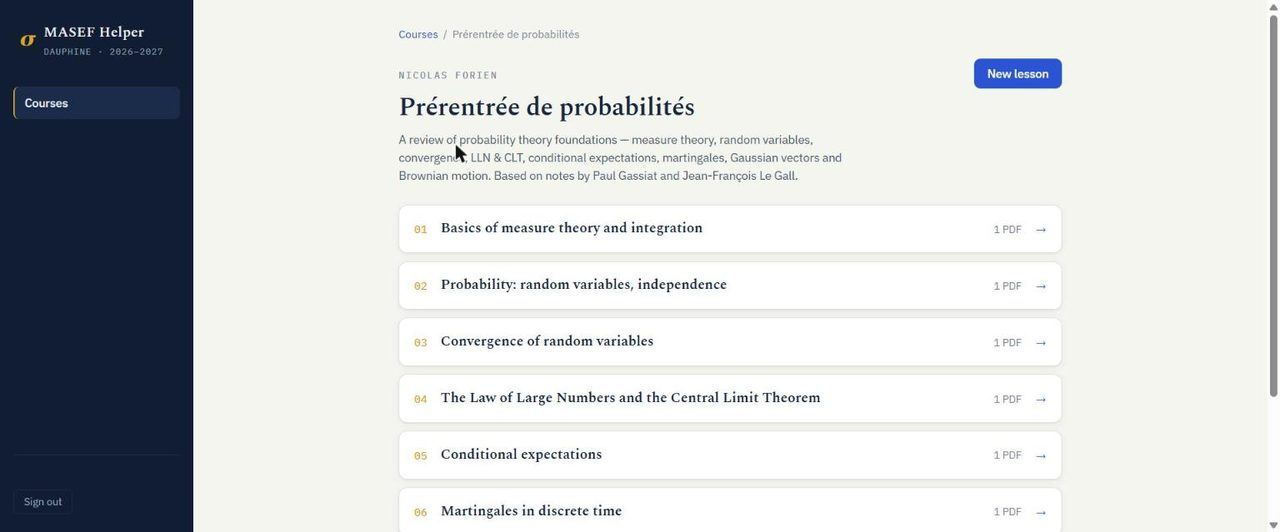
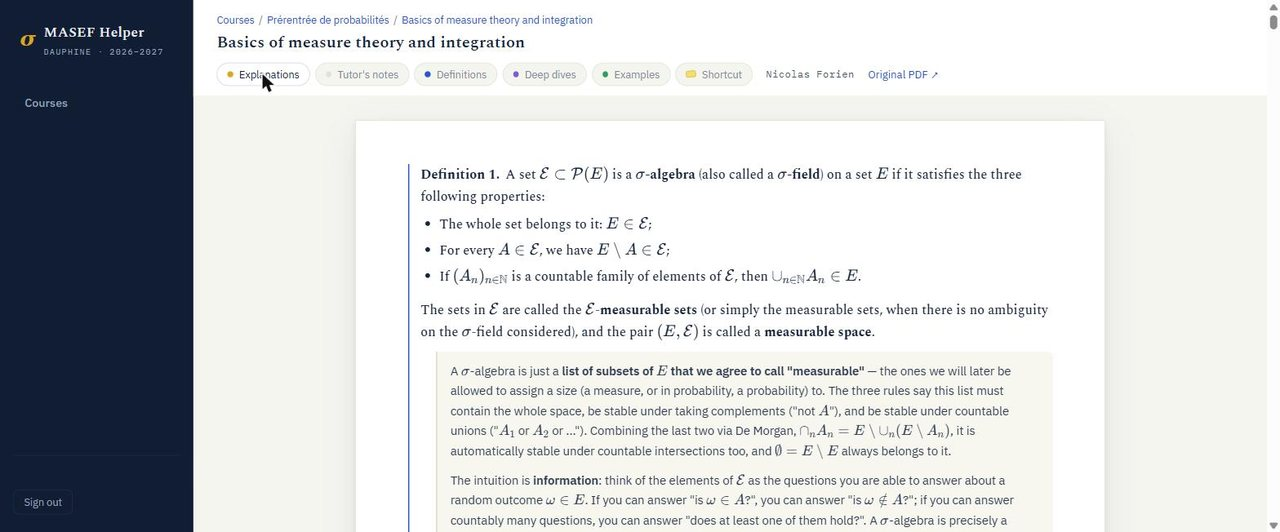
Guided tours for AI Apply Finance and MASEF Helper, AI Apply Finance rename and link

diff --git a/src/data.js b/src/data.js
@@ -59,10 +59,15 @@ export const experiences = [
 
 // `details` opens when a monitor is clicked. `live` is the deployed site, `video` the YouTube id of a demo; both optional.
 export const projects = [
-  { slug: 'ai-apply', year: 2026, title: 'AI Apply', stackShort: 'Python, Angular', stack: 'Python, FastAPI, Angular, Playwright, Claude',
+  { slug: 'ai-apply-finance', year: 2026, title: 'AI Apply Finance', stackShort: 'Python, Angular', stack: 'Python, FastAPI, Angular, Playwright, Claude',
     blurb: 'Sweeps hedge fund and bank job feeds every morning, scores each posting against your CV, drafts a cover letter with a two-agent pipeline, and fills the form. It stops before Submit.',
     details: 'Every morning it fetches openings from the career pages of the firms you follow, detects the applicant tracking system behind each one, and filters the roles. A first agent drafts a cover letter from your CV and a prototype letter; a second agent critiques it. Playwright then fills the application form and stops on the last page, so the final click is always yours. Friends use it too: each user has their own space and login.',
-    url: null, live: 'https://ai-applier.onrender.com', video: null },
+    url: null, live: 'https://ai-apply-finance.onrender.com', video: null,
+    shots: [
+      { src: 'demos/ai-apply-finance/1.jpg', caption: "Every morning: the openings at hedge funds and banks, scored against my CV." },
+      { src: 'demos/ai-apply-finance/2.jpg', caption: "Each offer gets a fit score, the reason it fits, and a letter of its own." },
+      { src: 'demos/ai-apply-finance/3.jpg', caption: "The letter: agents write the paragraph about the fund and the fit line, then it is rendered as a PDF, in English or French." },
+    ] },
   { slug: 'semantic-market-prediction', year: 2026, title: 'Semantic Market Prediction', stackShort: 'Python, XGBoost', stack: 'Python, XGBoost, GPT and Claude ensemble, NewsAPI, Finnhub',
     blurb: 'Scores recession fear in financial news with an LLM ensemble, tracks it against the S&P 500 and Euro Stoxx 50, and predicts next-day direction. Built for the BNP Paribas equity and derivatives strategy team.',
     details: 'News comes from three sources and is cleaned before any model sees it. Two language models read each day\'s articles and give one fear score for the day, weighing a single major event above many routine ones; averaging the two models reduces model-specific bias. An XGBoost model trained on two years of VIX and index data turns the fear series into a next-day direction, shown side by side with a written forecast from the language model. Each day only ever sees data from previous days, so the backtest is honest.',
@@ -80,9 +85,11 @@ export const projects = [
     details: 'Courses hold lessons, lessons hold the teacher\'s PDFs. Uploading a PDF outlines it into sections, transcribes each section faithfully to Markdown and LaTeX, and writes a short lecture under it. Every section has its own chat box, and there is a glossary and several reading modes. Built for my own MASEF year at Dauphine.',
     url: 'https://github.com/AbdallahMelhem9/masef-helper', live: 'https://masef-helper.onrender.com', video: null,
     shots: [
-      { src: 'demos/masef-helper/1.jpg', caption: "Courses, lessons, and the teacher's PDFs behind them." },
-      { src: 'demos/masef-helper/2.jpg', caption: "A course: one lesson per chapter, each with its PDF." },
-      { src: 'demos/masef-helper/3.jpg', caption: "A PDF you can read with explanations, notes and your own questions." },
+      { src: 'demos/masef-helper/1.jpg', caption: "The lesson as the teacher wrote it: the PDF transcribed with its formulas, every AI layer switched off." },
+      { src: 'demos/masef-helper/2.jpg', caption: "Toggle Explanations: a plain-words explanation appears under each definition and proposition." },
+      { src: 'demos/masef-helper/3.jpg', caption: "Every section has its own chat: ask the AI about that exact example." },
+      { src: 'demos/masef-helper/4.jpg', caption: "Shortcut: in a hurry? Only the yellow blocks are the essentials of the lesson." },
+      { src: 'demos/masef-helper/5.jpg', caption: "Tutor's notes and deep dives turn the PDF into a lecture." },
     ] },
   { slug: 'deep-learning-papers', year: 2025, title: 'Deep learning papers, rebuilt', stackShort: 'PyTorch', stack: 'PyTorch, Jupyter, YouTube',
     blurb: 'PyTorch re-implementations of DDPM, U-Net, VAE and a mini GPT, as runnable notebooks with accompanying videos.',
